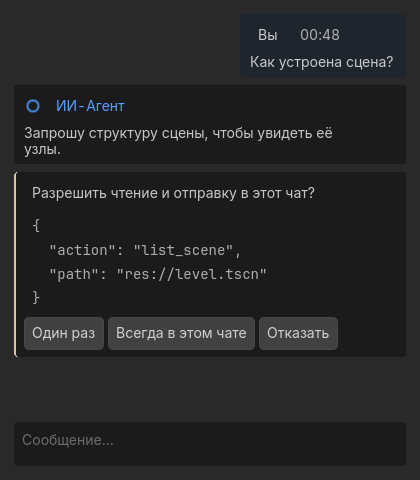
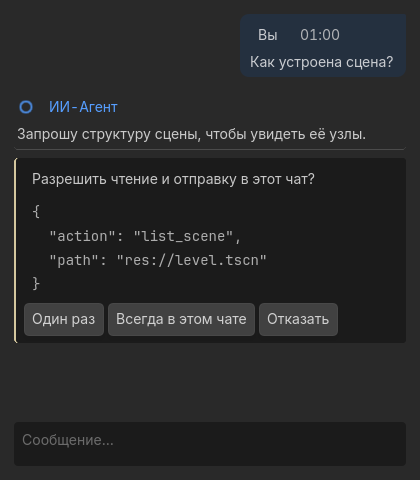
feat: redesign the Godot dock as a project workspace

diff --git a/tests/py/panel_tf/source_inputs.py b/tests/py/panel_tf/source_inputs.py
@@ -169,3 +169,36 @@ def revised_transcript_fact(fact, current):
     return revised_bug_register_fact(prior, current, {D124_TRANSCRIPT: (
[2 lines of base64/hex data omitted]
+
+
+D124_VISUAL = {
[2 lines of base64/hex data omitted]
+    'editor/native/agent_start_screen.gd': (*D123_REVISIONS['editor/native/agent_start_screen.gd'][2:],
[1 lines of base64/hex data omitted]
+    'editor/native/agent_theme.gd': (*D123_REVISIONS['editor/native/agent_theme.gd'][2:],
[1 lines of base64/hex data omitted]
+    'editor/native/agent_locale.gd': (*D116_REVISIONS['editor/native/agent_locale.gd'][2:4],
[1 lines of base64/hex data omitted]
+}
+
+
+def before_workspace_labels(current):
+    path = 'editor/native/agent_locale.gd'
+    if (len(current), hashlib.sha256(current).hexdigest()) != D124_VISUAL[path][2:]:
+        raise ValueError('Unexpected workspace labels revision')
+    return b''.join(line for line in current.splitlines(True) if not line.startswith(b'\t"workspace_'))
+
+
+def revised_workspace_fact(fact, current):
+    path = fact['path']
+    if path in D116_REVISIONS:
+        fact = revised_d116_fact(fact, before_workspace_labels(current))
+    else:
+        for revisions in (BUG_REGISTER_REVISIONS, D123_REVISIONS):
+            if path in revisions:
+                old_size, old_sha, size, sha = revisions[path]
+                if (fact['bytes'], fact['sha256']) != (old_size, old_sha):
+                    raise ValueError('Prior dock input drifted: ' + path)
+                fact = dict(fact, bytes=size, sha256=sha)
+    return revised_bug_register_fact(fact, current, D124_VISUAL)

diff --git a/tests/conftest.py b/tests/conftest.py
@@ -4,6 +4,7 @@ from tests.py.panel_tf.source_inputs import (
     BUG_REGISTER_REVISIONS,D116_REVISIONS,D122_REVISIONS,PANEL_PATH,PATH,revised_bug_register_fact,
     D123_REVISIONS,revised_dock_fact,revised_d116_fact,revised_fact,revised_panel_fact,
     D124_TRANSCRIPT,revised_transcript_fact,
+    D124_VISUAL,revised_workspace_fact,
 )
 
 ROOT=Path(__file__).resolve().parents[1]
@@ -18,6 +19,8 @@ def pytest_collection_modifyitems(items):
             item.callspec.params['fact']=revised_fact(fact,before,(ROOT/PATH).read_bytes());revised+=1
         elif fact['path']==PANEL_PATH:
             item.callspec.params['fact']=revised_panel_fact(fact,(ROOT/PANEL_PATH).read_bytes());revised_panel+=1
+        elif fact['path'] in D124_VISUAL:
+            item.callspec.params['fact']=revised_workspace_fact(fact,(ROOT/fact['path']).read_bytes())
         elif fact['path'] in D116_REVISIONS:
             item.callspec.params['fact']=revised_d116_fact(fact,(ROOT/fact['path']).read_bytes());revised_d116+=1
         elif fact['path'] in D123_REVISIONS:

diff --git a/tests/py/panel_tf/test_chat_prompt_and_live_input.py b/tests/py/panel_tf/test_chat_prompt_and_live_input.py
@@ -136,9 +136,11 @@ def test_all_native_scenes_match_script_uid_sidecars():
 
 
 def test_d116_source_input_revisions_prove_preimage_and_refuse_drift():
-    from tests.py.panel_tf.source_inputs import D116_REVISIONS, revised_d116_fact
+    from tests.py.panel_tf.source_inputs import D116_REVISIONS, before_workspace_labels, revised_d116_fact
     for path, (old_b, old_sha, new_b, new_sha, _) in D116_REVISIONS.items():
         current = (ROOT / path).read_bytes()
+        if path == 'editor/native/agent_locale.gd':
+            current = before_workspace_labels(current)
         updated = revised_d116_fact({'path': path, 'bytes': old_b, 'sha256': old_sha}, current)
         assert updated['bytes'] == new_b and updated['sha256'] == new_sha
         with pytest.raises(ValueError):

diff --git a/tests/py/live/test_dock_presentation.py b/tests/py/live/test_dock_presentation.py
@@ -53,7 +53,7 @@ func measure() -> void:
     screen.chats_tab_requested.connect(func(): clicked.append("chats"))
     screen.sites_tab_requested.connect(func(): clicked.append("sites"))
     screen.api_tab_requested.connect(func(): clicked.append("api"))
-    var rows: Array = screen._api_key_btn.get_parent().get_children()
+    var rows: Array = [screen.find_child("OpenHistory", true, false), screen.find_child("BrowserChat", true, false), screen._api_key_btn]
     for width in [250, 420]:
         viewport.size.x = width
         for i in 8:

diff --git a/docs/WORKLOG.md b/docs/WORKLOG.md
@@ -287,3 +287,19 @@ D121 установлена; следующий шаг — отправить о
 модели был один. `selfcheck` для `assistant.chat` (29 unit / 10 corpus) и
 `assistant.write` (43 / 4), CLI `read`, проверки контрактов, архитектуры,
 безопасности и размеров прошли; два прежних предупреждения размеров.
+
+### D124 — второй вариант панели
+
+Главная — «Мастерская проекта» с графикой узлов, прямым входом в историю
+и двумя способами начать чат. В диалоге текст ответа занимает ширину дока.
+Проверены главная и переписка в Godot 4.6.3 на 250 и 420 px в обеих темах
+(2 live-теста); [снимки](../.github/dock-preview/README.md). Регресс панели,
+каналов, переноса и фактов исходников: 739 тестов прошли. Первый прогон
+обнаружил, что отдельный тест D116 проверял текст локализации до добавления новых
+подписей; теперь он проверяет тот же исторический текст после обратимого
+удаления только добавленных строк из проверенной версии.
+
+### Где остановились — D124
+
+Переоткрыть рабочий проект, начать диалог, затем открыть его по кнопке
+«Сохранённые чаты». Исправление истории (`85b28d1`) сохранено отдельно от вида панели.

diff --git a/docs/porting/TF5-panel-ui.md b/docs/porting/TF5-panel-ui.md
@@ -94,3 +94,15 @@ unsupported по принятому T-F, включение прежнего UI 
 элементов за край при 250 и 420 px в обеих темах. Сигналы навигации, выбор
 и отзыв разрешений проверены. [Снимки](../../.github/dock-preview/README.md).
 Следующее действие: открыть док в рабочем проекте и оценить оформление.
+
+### D124 — второй вариант оформления
+
+По отзыву пользователя вместо плоского списка D123 — главный экран с графикой
+узлов и отдельным входом в историю. В диалоге дать больше места тексту ответа,
+визуально разделить реплики, детали доступа оставить раскрытыми. Проверить
+обе темы и узкий док в Godot; сохранить снимки реальных контролов.
+
+Результат: «Мастерская проекта» с векторной схемой узлов, заметной кнопкой
+истории и отдельными плитками браузера и API. Вопрос пользователя в плашке;
+ответ агента использует ширину дока. В двух профилях Godot 4.6.3 проверены
+ширины 250/420 px, контраст, фокус и три перехода. [Снимки](../../.github/dock-preview/README.md).

diff --git a/docs/PROGRESS.md b/docs/PROGRESS.md
@@ -3,6 +3,7 @@
 ## Текущий статус (2026-11-27)
 
 - D124 установлен: исправлен пустой [сохранённый диалог панели](porting/assistant.write.md). После полной остановки и повторного запуска EXE из сохранения вернулись запрос и ответ; проверено на отдельном профиле и локальном тестовом API. Старые пустые записи не перезаписываются миграцией.
+- Второй вариант панели D124: [«Мастерская проекта» — снимки из Godot](../.github/dock-preview/README.md). Чтобы увидеть её в проекте, переоткрыть редактор; кнопка «Сохранённые чаты» на главной открывает историю.
 
 - D123: [оформление дока в тёмной и светлой темах](../.github/dock-preview/README.md). Главная, чат и запрос чтения проверены при ширине 250 и 420 px в Godot 4.6.3. Для просмотра в рабочей копии переоткрыть проект. Точка возврата до смены оформления — `d32ecda` в `experiment`.
 

diff --git a/.github/dock-preview/README.md b/.github/dock-preview/README.md
@@ -1,6 +1,6 @@
 # Док Godot Agent
 
-Главная в узком доке (250 px) и пример чата с запросом на чтение (420 px). Снимки отрисованы в Godot 4.6.3 с разными темами редактора, на тестовом диалоге.
+«Мастерская проекта»: на главной — схема узлов, сохранённые чаты и два входа в новый диалог. В переписке вопрос помещается в компактную плашку, а ответ занимает всю доступную ширину. Ниже — главная при 250 px и пример запроса чтения при 420 px, отрисованные в Godot 4.6.3 на тестовом диалоге.
 
 | Тёмная тема | Светлая тема |
 | --- | --- |
